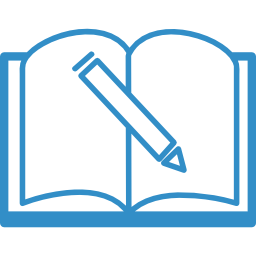
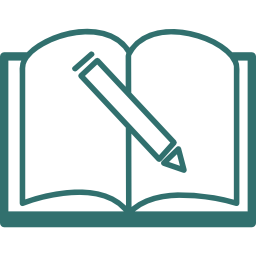
added back in booking calendar, guest book, and contact vector art, as well as change colors

Changed region(s): [[0.0, 0.0938, 1.0, 0.9062]]

diff --git a/seagate.php b/seagate.php
@@ -221,7 +221,7 @@
                 <div class="fill-screen fixed-attachment img-responsive" style="background-image: url('images/beachclub/family_beach.jpg');"></div>
             </section>
             <div class="col-xs-4 col-xs-offset-4">
-                <img id="reserve" class="img-responsive bookImg" src="images/beachclub/calendar.png">
+                <img id="reserve" class="img-responsive bookImg" src="images/seagate/calendar.png">
             </div>
             <section class="row reserveMe">
                 <h1 id="ratesReservations" style="text-align: center; margin-top: 30px;">Rates and Reservations</h1>
@@ -252,7 +252,7 @@
                 <div class="fill-screen fixed-attachment img-responsive" style="background-image: url('images/beachclub/overhead_pool.jpg');"></div>
             </section>
             <div class="col-xs-4 col-xs-offset-4">
-                <img id="guest" class="img-responsive bookImg" src="images/beachclub/guest-book.png">
+                <img id="guest" class="img-responsive bookImg" src="images/seagate/guest-book.png">
             </div>
             <section id="guestBook" class="row">
                 <h1>Guest Book</h1>
@@ -279,7 +279,7 @@
 
             </section>
             <div class="col-xs-4 col-xs-offset-4">
-                <img id="contact" class="img-responsive bookImg" src="images/beachclub/contact.png">
+                <img id="contact" class="img-responsive bookImg" src="images/seagate/contact.png">
             </div>
             <section id="contact-me" class="row">
                 <div class="contact-us">
@@ -321,8 +321,6 @@
             <br>
             <br>
             <h4>Credits:</h4>
-            <div>Icons made by <a href="http://www.flaticon.com/authors/madebyoliver" title="Madebyoliver">Madebyoliver</a> from <a href="http://www.flaticon.com" title="Flaticon">www.flaticon.com</a> is licensed by <a href="http://creativecommons.org/licenses/by/3.0/" title="Creative Commons BY 3.0" target="_blank">CC 3.0 BY</a></div>
-            <div>Icons made by <a href="http://www.freepik.com" title="Freepik">Freepik</a> from <a href="http://www.flaticon.com" title="Flaticon">www.flaticon.com</a> is licensed by <a href="http://creativecommons.org/licenses/by/3.0/" title="Creative Commons BY 3.0" target="_blank">CC 3.0 BY</a></div>
             <div>Icons made by <a href="http://www.flaticon.com/authors/epiccoders" title="EpicCoders">EpicCoders</a> from <a href="http://www.flaticon.com" title="Flaticon">www.flaticon.com</a> is licensed by <a href="http://creativecommons.org/licenses/by/3.0/" title="Creative Commons BY 3.0" target="_blank">CC 3.0 BY</a></div>
             <div>Icons made by <a href="http://www.flaticon.com/authors/madebyoliver" title="Madebyoliver">Madebyoliver</a> from <a href="http://www.flaticon.com" title="Flaticon">www.flaticon.com</a> is licensed by <a href="http://creativecommons.org/licenses/by/3.0/" title="Creative Commons BY 3.0" target="_blank">CC 3.0 BY</a></div>
             <div>Icons made by <a href="http://www.flaticon.com/authors/freepik" title="Freepik">Freepik</a> from <a href="http://www.flaticon.com" title="Flaticon">www.flaticon.com</a> is licensed by <a href="http://creativecommons.org/licenses/by/3.0/" title="Creative Commons BY 3.0" target="_blank">CC 3.0 BY</a></div>
